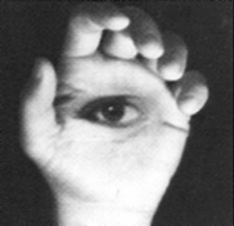
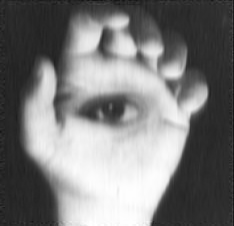
separavel pronto

diff --git a/main.py b/main.py
@@ -3,10 +3,10 @@ import timeit
 import numpy as np
 import cv2
 
-INPUT_IMAGE_PREFIX =  'a'
+INPUT_IMAGE_PREFIX =  'b'
 INPUT_IMAGE = '01 - Original.bmp'
 
-def filtro_media_ingenuo(img, janela=3):
+def filtro_media_ingenuo(img, janela):
     meia_janela = janela//2
     janela_total = (janela)**2
     altura, largura = img.shape
@@ -17,6 +17,34 @@ def filtro_media_ingenuo(img, janela=3):
                 for dx in range(-meia_janela, meia_janela + 1):
                     soma += img[y + dy, x + dx]
             img[y, x] = soma/janela_total
+
+
+def filtro_media_separavel(img, janela):
+    meia_janela = janela//2
+    altura, largura = img.shape
+    img2 = img.copy()
+    fms_horiz(img, img2, meia_janela, altura, largura, janela)
+    fms_vert(img2, img, meia_janela, altura, largura, janela)
+
+
+#2 for, 1 pra x e 1 pra y, e um for para janela (tds pixels na janela)
+def fms_horiz(entrada, saida, meia_janela, altura, largura, janela):
+    for y in range(meia_janela, altura - meia_janela):
+        for x in range(meia_janela, largura - meia_janela):
+            soma = 0.0
+            for dy in range(-meia_janela, meia_janela + 1):
+                soma += entrada[y+dy, x]
+            saida[y,x] = soma/janela
+
+
+#igual
+def fms_vert(entrada, saida, meia_janela, altura, largura, janela):
+    for y in range(meia_janela, altura - meia_janela):
+        for x in range(meia_janela, largura - meia_janela):
+            soma = 0.0
+            for dx in range(-meia_janela, meia_janela + 1):
+                soma += entrada[y, x+dx]
+            saida[y,x] = soma/janela
 
 
 def main ():
@@ -35,7 +63,7 @@ def main ():
     B, G, R = cv2.split(img)
 
     for canal in (B, G, R):
-        filtro_media_ingenuo(canal, 3)
+        filtro_media_separavel(canal, 7)
 
     img = cv2.merge([B, G, R])
 
